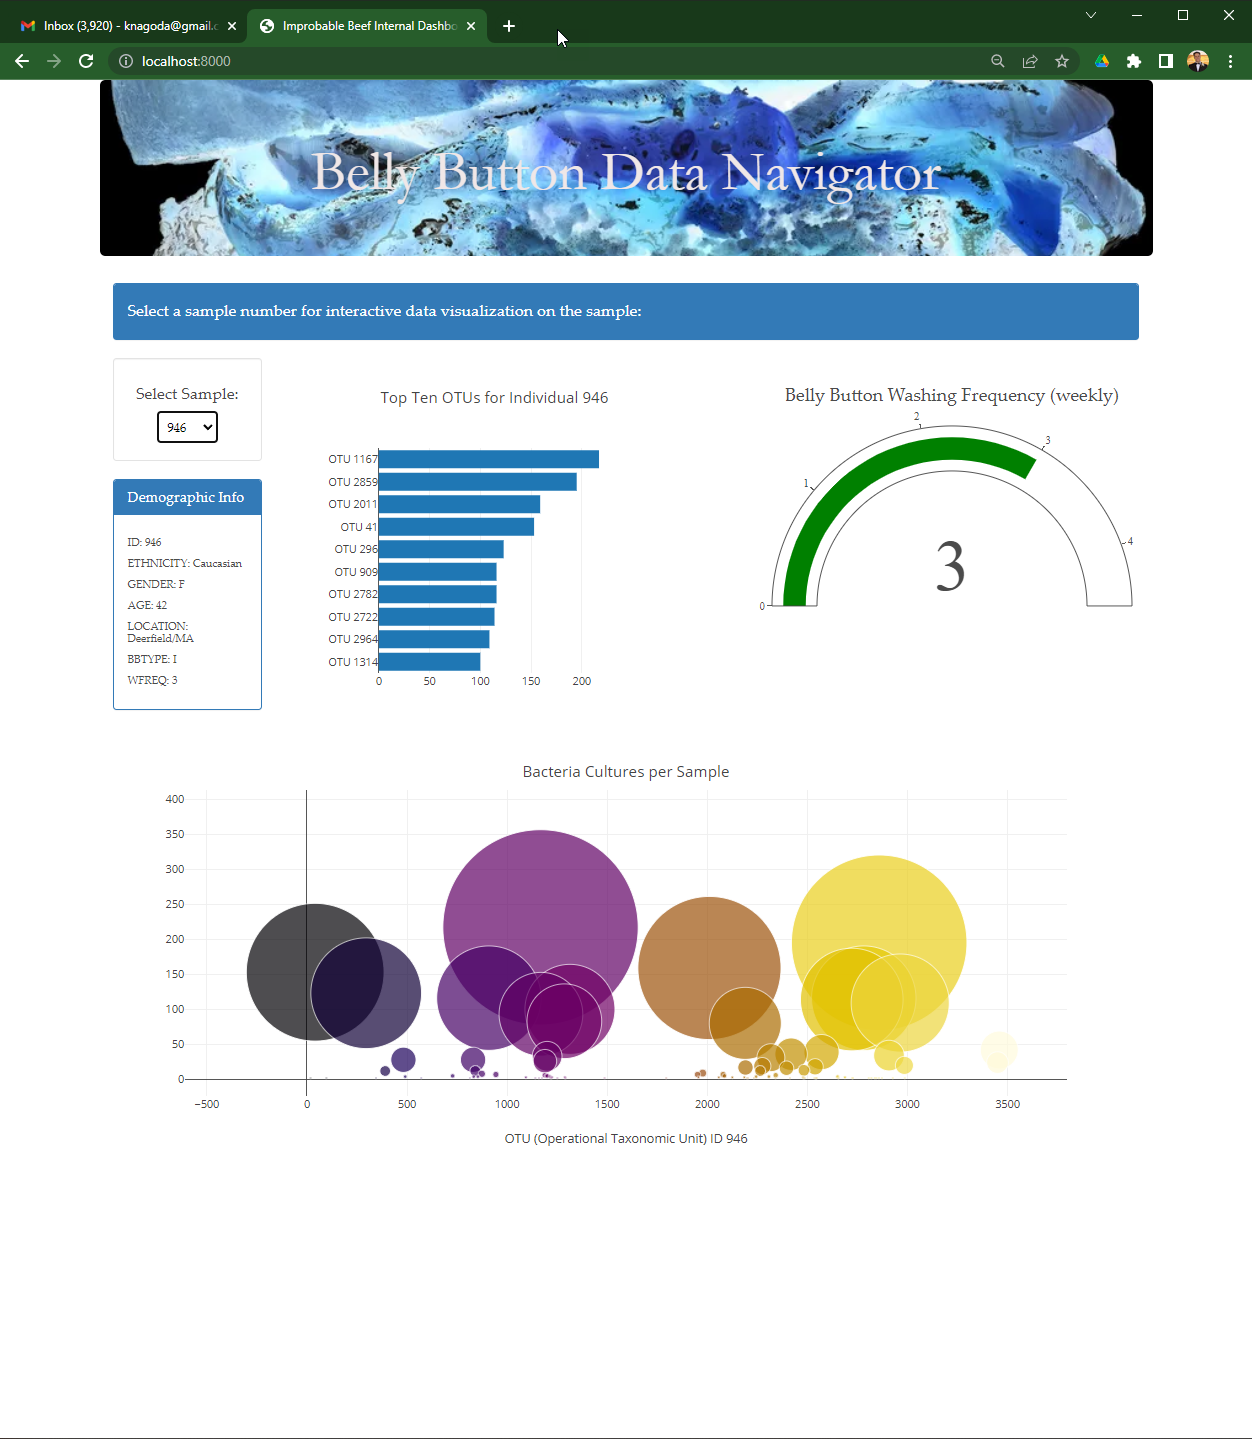
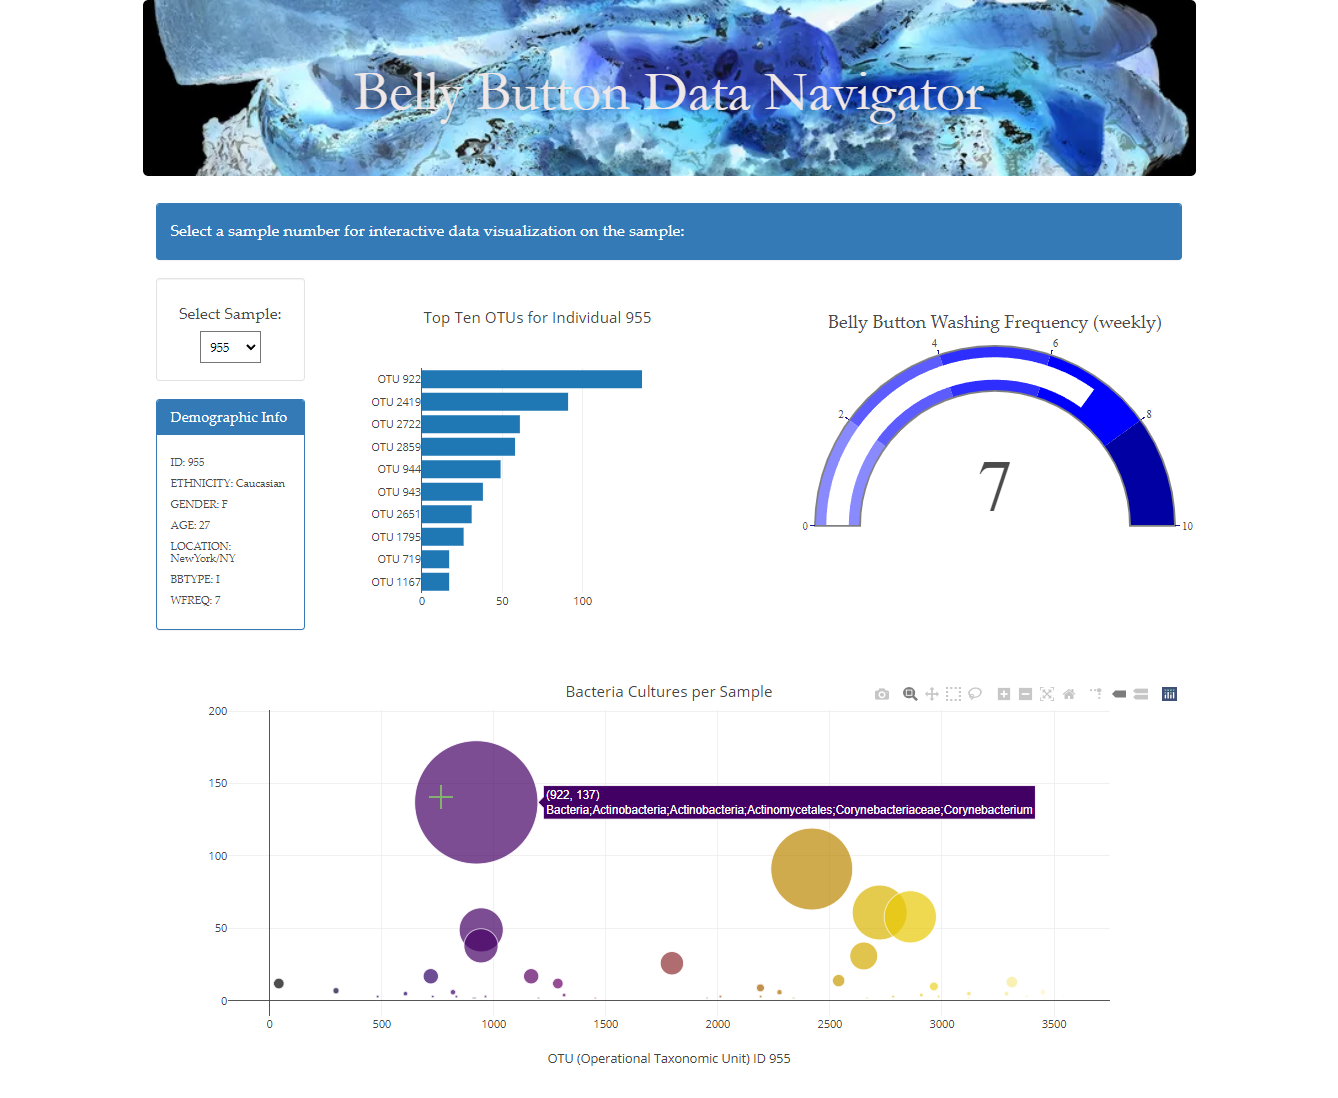
added colors to gauge and took screenshot

diff --git a/js/app.js b/js/app.js
@@ -40,7 +40,22 @@ function init() {
         title: 'Belly Button Washing Frequency (weekly)',
         titlefont: {family: '"Palatino Linotype", "Book Antiqua", Palatino, serif'},
         type: "indicator",
-        mode: "gauge+number"
+        mode: "gauge+number",
+        gauge: {
+          axis: { range: [null, 10], tickwidth: 1, tickcolor: "#00008B" },
+          bar: { color: "#ffffff" },
+          bgcolor: "white",
+          borderwidth: 2,
+          bordercolor: "#808080",
+          steps: [
+            {range: [0, 2], color: "#8A8AFF" },
+            {range: [2, 4], color: "#5C5CFF" },
+            {range: [4, 6], color: "#2E2EFF" },
+            {range: [6, 8], color: "#0000FF" },
+            {range: [8, 10], color: "#0000A3" }
+          ],
+        }
+
       }
     ];
     
